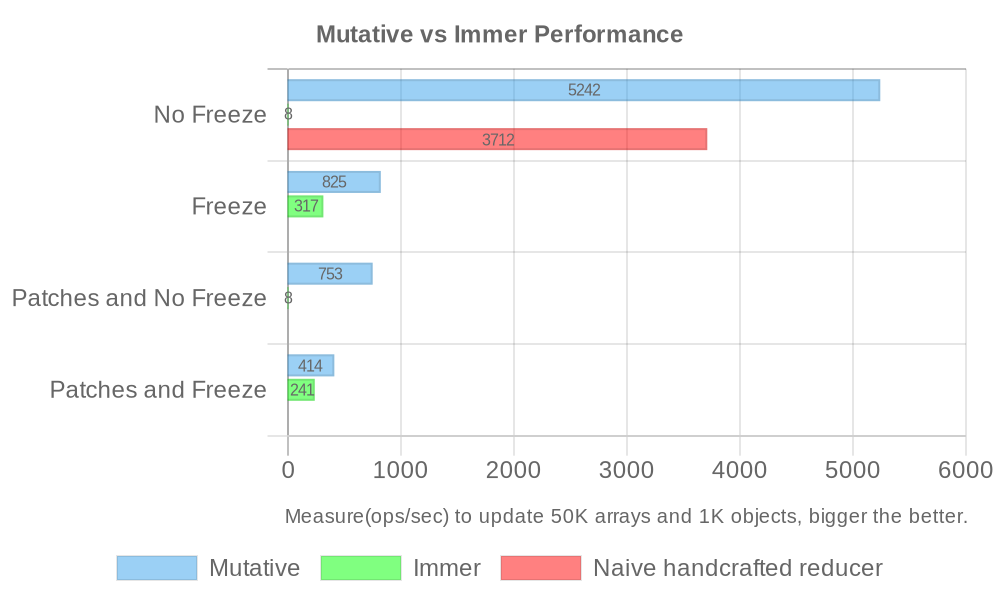
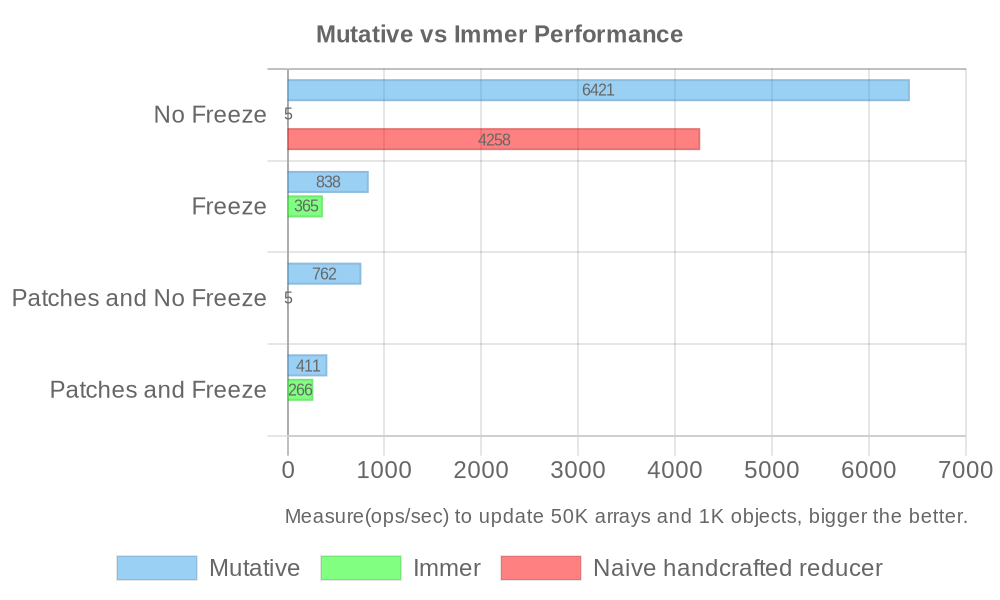
chore(deps): update deps and doc

diff --git a/README.md b/README.md
@@ -21,21 +21,21 @@ This is why Mutative was created.
 
 ## Mutative vs Immer Performance
 
-Measure(ops/sec) to update 50K arrays and 1K objects, bigger is better([view source](https://github.com/unadlib/mutative/blob/main/test/performance/benchmark.ts)). [Mutative v0.5.0 vs Immer v9.0.21]
+Measure(ops/sec) to update 50K arrays and 1K objects, bigger is better([view source](https://github.com/unadlib/mutative/blob/main/test/performance/benchmark.ts)). [Mutative v0.5.0 vs Immer v10.0.1]
 
 ```
-Naive handcrafted reducer - No Freeze x 3,712 ops/sec ±0.61% (94 runs sampled)
-Mutative - No Freeze x 5,242 ops/sec ±1.84% (94 runs sampled)
-Immer - No Freeze x 7.67 ops/sec ±0.36% (24 runs sampled)
+Naive handcrafted reducer - No Freeze x 4,258 ops/sec ±1.14% (89 runs sampled)
+Mutative - No Freeze x 6,421 ops/sec ±1.73% (91 runs sampled)
+Immer - No Freeze x 5.11 ops/sec ±0.78% (17 runs sampled)
 
-Mutative - Freeze x 825 ops/sec ±1.35% (97 runs sampled)
-Immer - Freeze x 317 ops/sec ±0.75% (91 runs sampled)
+Mutative - Freeze x 838 ops/sec ±0.31% (96 runs sampled)
+Immer - Freeze x 365 ops/sec ±0.57% (94 runs sampled)
 
-Mutative - Patches and No Freeze x 753 ops/sec ±0.13% (95 runs sampled)
-Immer - Patches and No Freeze x 7.65 ops/sec ±0.26% (24 runs sampled)
+Mutative - Patches and No Freeze x 762 ops/sec ±1.16% (94 runs sampled)
+Immer - Patches and No Freeze x 5.05 ops/sec ±0.26% (17 runs sampled)
 
-Mutative - Patches and Freeze x 414 ops/sec ±1.41% (93 runs sampled)
-Immer - Patches and Freeze x 241 ops/sec ±0.68% (89 runs sampled)
+Mutative - Patches and Freeze x 411 ops/sec ±0.46% (92 runs sampled)
+Immer - Patches and Freeze x 266 ops/sec ±0.69% (92 runs sampled)
 
 The fastest method is Mutative - No Freeze
 ```
@@ -74,8 +74,6 @@ Overall, Mutative has a huge performance lead over Immer in [more performance te
 | async draft function      |       ✅ |  ❌   |
 
 Mutative has fewer bugs such as accidental draft escapes than Immer, [view details](https://github.com/unadlib/mutative/blob/main/test/immer-non-support.test.ts).
-
-> Mutative size is `4.39KB` with minified and gzipped. Immer size with same features is `4.67 KB`.
 
 ## Installation
 
